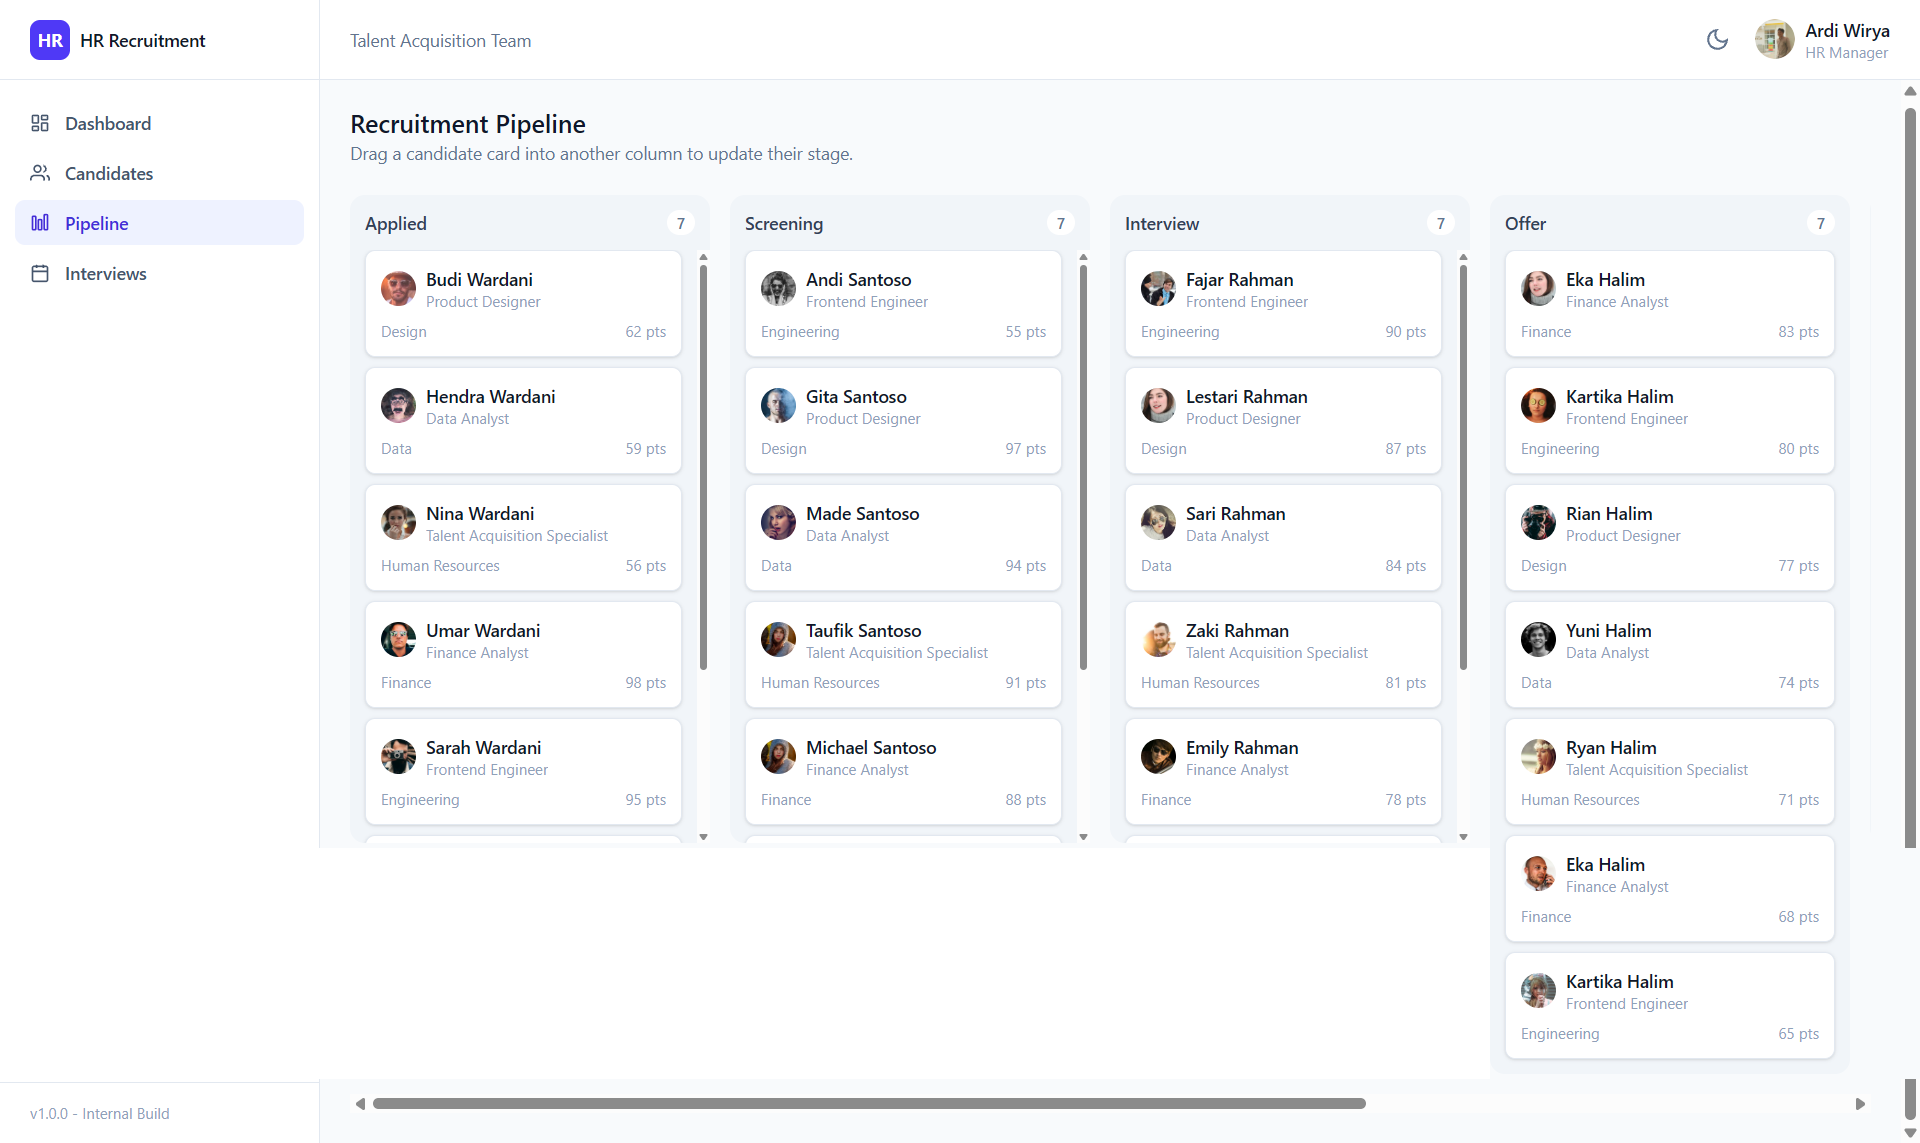
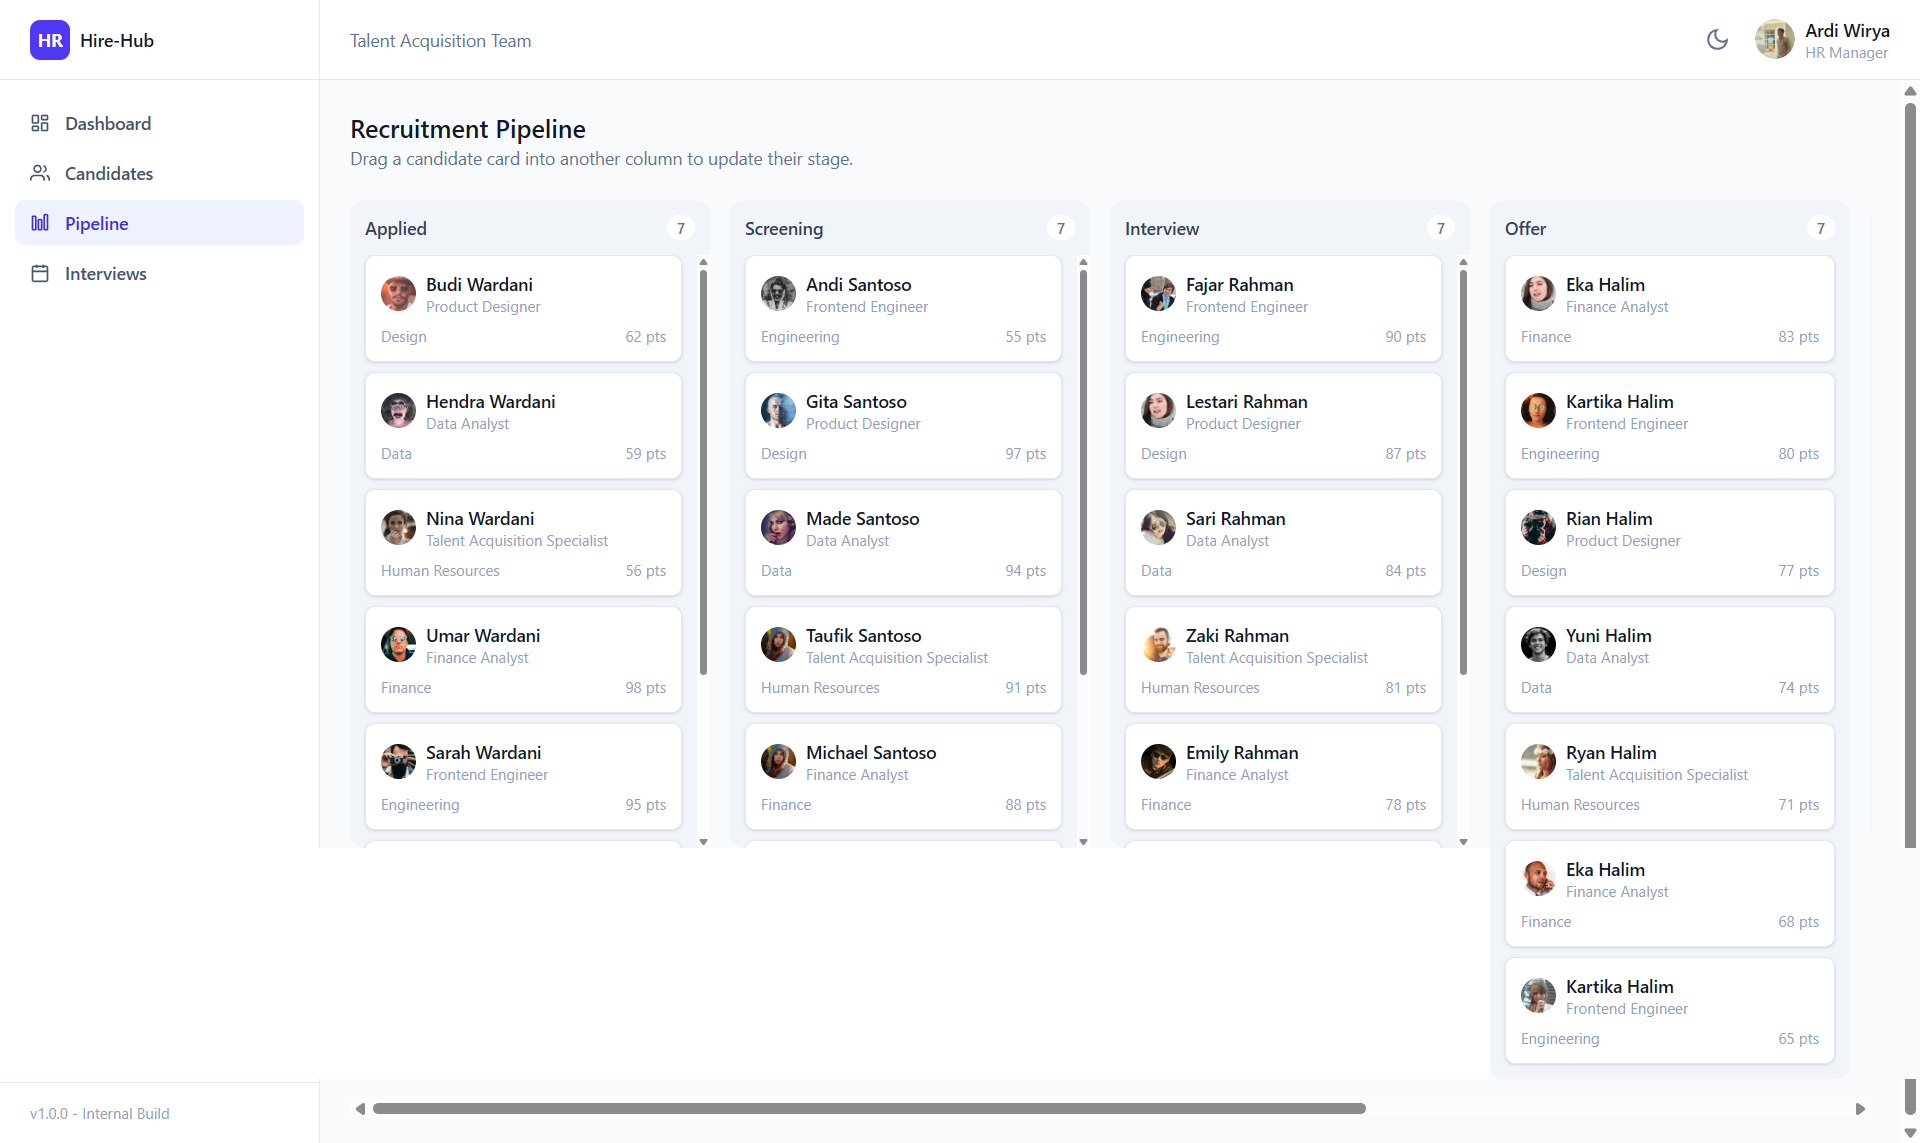
rebrand: rename app to HireHub to match repo name

diff --git a/src/components/layout/Sidebar.tsx b/src/components/layout/Sidebar.tsx
@@ -17,7 +17,7 @@ export function Sidebar({ className, onNavigate }: SidebarProps) {
   return (
     <aside
       className={cn(
-        'flex w-64 shrink-0 flex-col border-r border-slate-200 bg-white dark:border-slate-800 dark:bg-slate-900',
+        "flex w-64 shrink-0 flex-col border-r border-slate-200 bg-white dark:border-slate-800 dark:bg-slate-900",
         className,
       )}
     >
@@ -26,7 +26,7 @@ export function Sidebar({ className, onNavigate }: SidebarProps) {
           HR
         </div>
         <span className="text-sm font-semibold text-slate-900 dark:text-slate-100">
-          HR Recruitment
+          Hire-Hub
         </span>
       </div>
 
@@ -35,14 +35,14 @@ export function Sidebar({ className, onNavigate }: SidebarProps) {
           <NavLink
             key={item.to}
             to={item.to}
-            end={item.to === '/'}
+            end={item.to === "/"}
             onClick={onNavigate}
             className={({ isActive }) =>
               cn(
-                'flex items-center gap-3 rounded-lg px-3 py-2 text-sm font-medium transition-colors',
+                "flex items-center gap-3 rounded-lg px-3 py-2 text-sm font-medium transition-colors",
                 isActive
-                  ? 'bg-indigo-50 text-indigo-700 dark:bg-indigo-950 dark:text-indigo-300'
-                  : 'text-slate-600 hover:bg-slate-100 dark:text-slate-400 dark:hover:bg-slate-800',
+                  ? "bg-indigo-50 text-indigo-700 dark:bg-indigo-950 dark:text-indigo-300"
+                  : "text-slate-600 hover:bg-slate-100 dark:text-slate-400 dark:hover:bg-slate-800",
               )
             }
           >
@@ -56,7 +56,7 @@ export function Sidebar({ className, onNavigate }: SidebarProps) {
         v1.0.0 - Internal Build
       </div>
     </aside>
-  )
+  );
 }
 
 type IconProps = { className?: string }

diff --git a/index.html b/index.html
@@ -4,7 +4,7 @@
     <meta charset="UTF-8" />
     <link rel="icon" type="image/svg+xml" href="/favicon.svg" />
     <meta name="viewport" content="width=device-width, initial-scale=1.0" />
-    <title>HR Recruitment</title>
+    <title>Hire-Hub</title>
   </head>
   <body>
     <div id="root"></div>

diff --git a/README.md b/README.md
@@ -1,18 +1,18 @@
-# HR Recruitment
+# Hire-Hub
 
 A recruitment management dashboard built to explore how a modern HR platform such as Workday, Greenhouse, or Lever could be structured on the front end. The application covers the full hiring workflow: tracking applicants, moving candidates through recruitment stages, scheduling interviews, and reviewing pipeline metrics.
 
 This is a front end only project. All data is generated in memory and resets on page reload, there is no backend or persistence layer.
 
-Live Demo : [HR Recruitment](https://hire-hub.vercel.app)
+Live Demo : [Hire-Hub](https://hire-hub.vercel.app)
 
 ## Preview
 
 <p align="center">
-<img src="docs/screenshots/hr-dashboard.png" alt="hr dashboard" width="70%" />
+<img src="docs/screenshots/hire-hub.png" alt="hire-hub dashboard" width="70%" />
 
 <p align="center">
-<img src="docs/screenshots/candidate.png" alt="candidate" width="70%" />
+<img src="docs/screenshots/candidates.png" alt="candidates" width="70%" />
 
 <p align="center">
 <img src="docs/screenshots/pipeline.png" alt="pipeline" width="70%" />
@@ -68,8 +68,8 @@ Each folder maps to one concern in the app. Components are kept small and coloca
 Requirements: Node.js 20 or later and npm.
 
 ```bash
-git clone https://github.com/ardiwirya/hr-recruitment.git
-cd hr-recruitment
+git clone https://github.com/ardiwirya/hire-hub.git
+cd hire-hub
 npm install
 npm run dev
 ```
